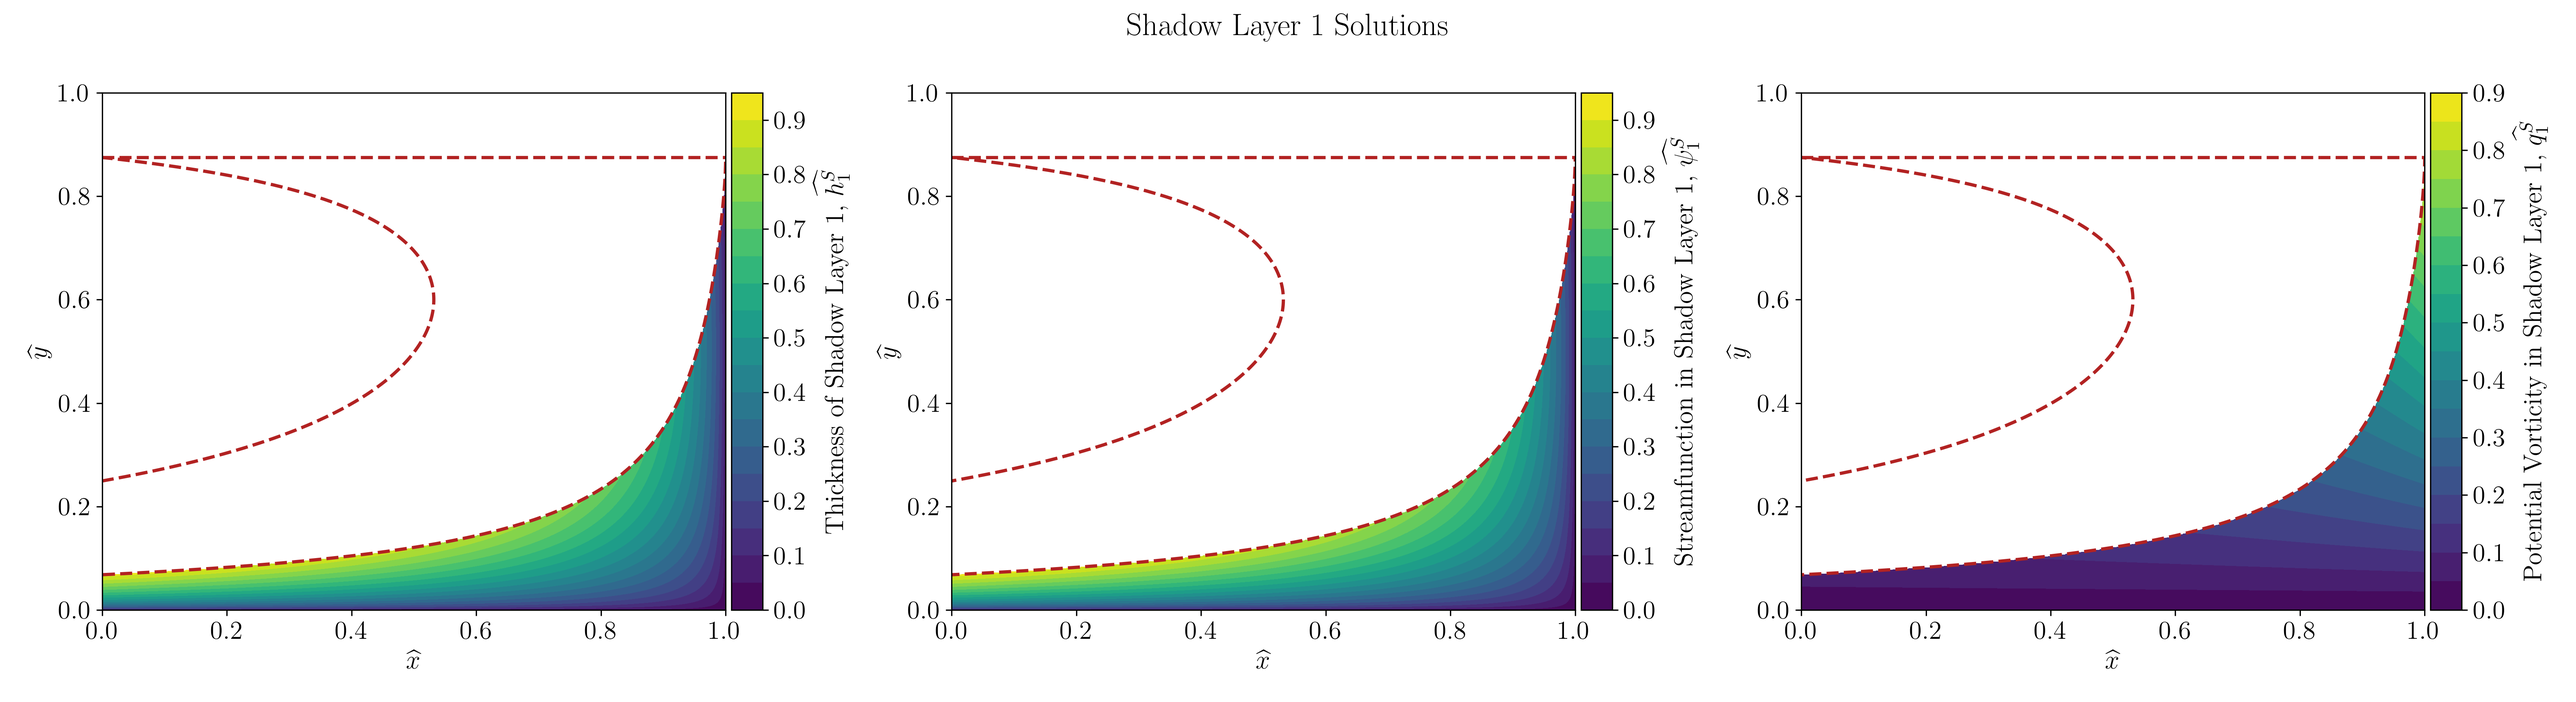
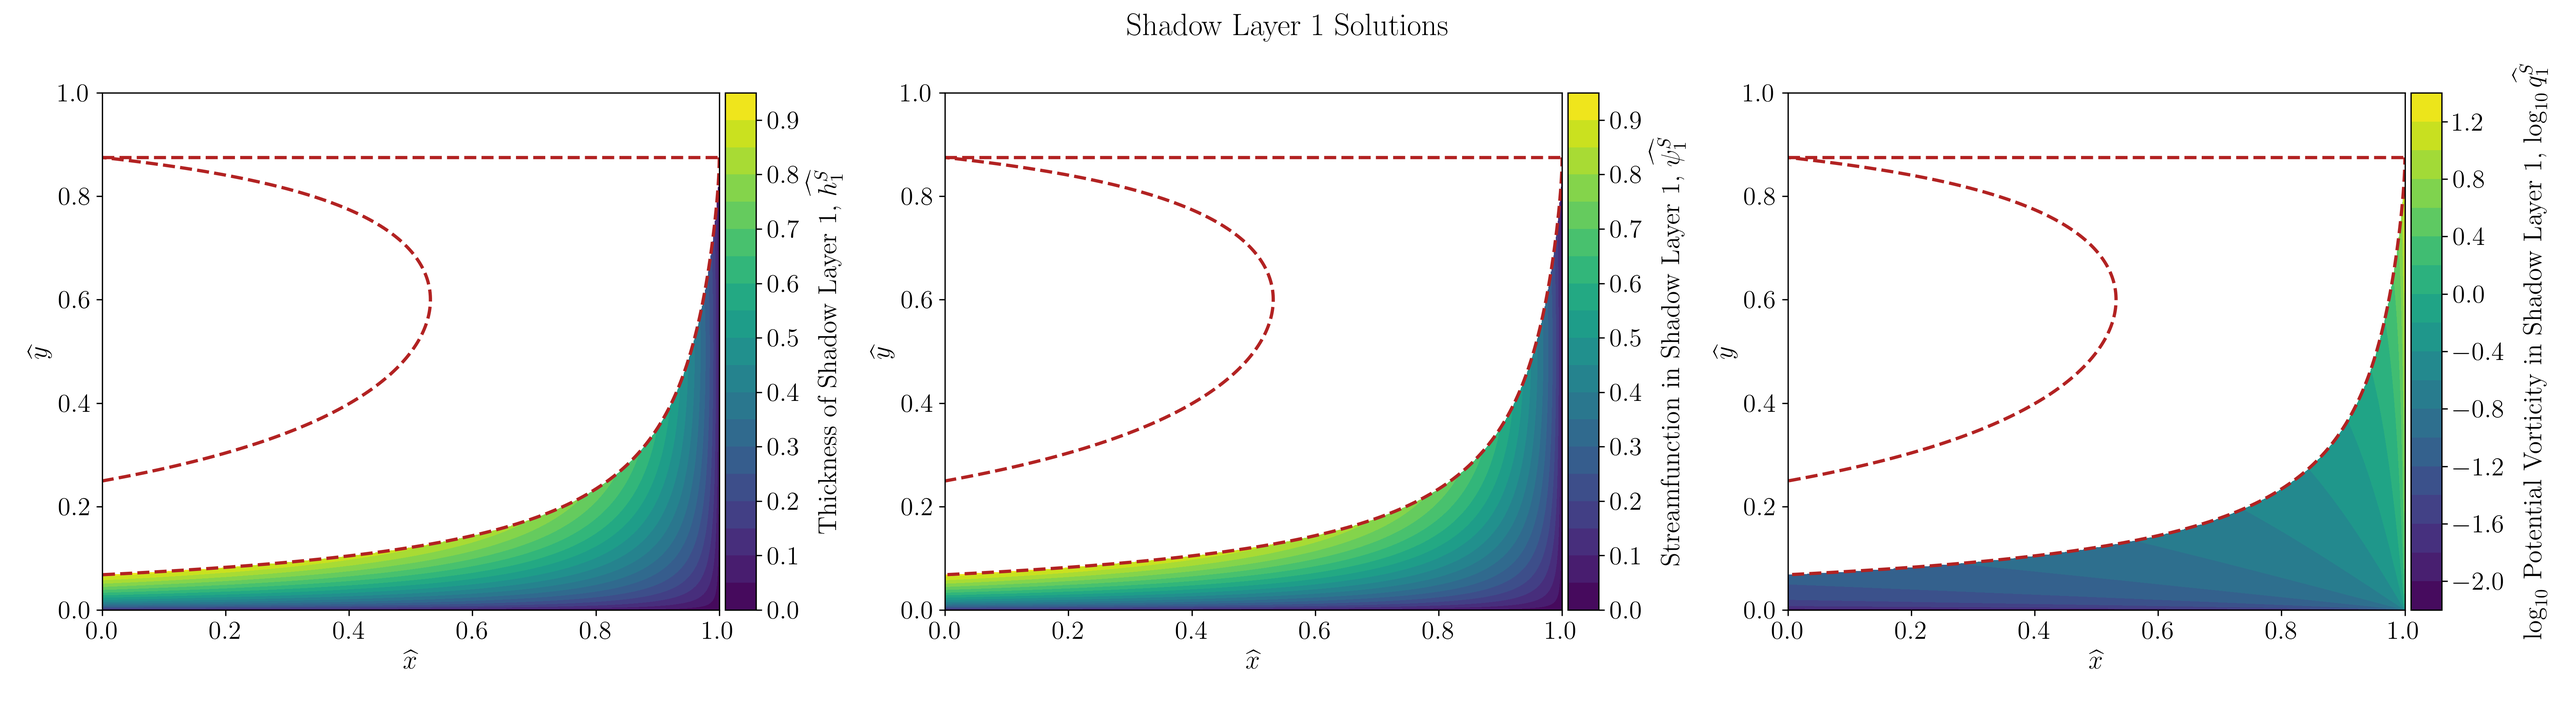
adding in submitted pset5 for 12801

diff --git a/blog/course_notes/courses/12801/problem_sets/ps5/12801_ps5.html b/blog/course_notes/courses/12801/problem_sets/ps5/12801_ps5.html
@@ -573,6 +573,7 @@ We plot the solution fields to Layer 1 in Fig. 6 below.
 	<figcaption> 
 		Fig. 6: The solution fields for Layer 1 of the Shadow region (left) $\widehat{h_1^S}$ (middle) $\widehat{\psi_1^S}$ (right) $\widehat{q_1^S}$.
 		The dash red lines represent the bounds of the "sleeve" of ventilation derived above.
+		Note the $\log_{10}$ scale of the PV, used to better show the contours of the solution.
 	</figcaption>
 </figure>
 
@@ -613,7 +614,7 @@ which means that:
 \end{equation}
 Then, we can relate this to our depth of $h_2$ following:
 \begin{equation}
-	\widehat{h_2} = \frac{f}{f_0}\widehat{q_2} = \frac{8}{7 \widehat{y}}\left(1 + 4\sin\left[\frac{7}{8}\pi\right] \right) ^ {1 / 2},
+	\widehat{h_2} = \frac{f}{f_0}\frac{1}{\widehat{q_2}} = \widehat{y}\frac{8}{7}\left(1 + 4\sin\left[\frac{7}{8}\pi\right] \right) ^ {1 / 2},
 \end{equation}
 and from geostrophy we know that:
 \begin{equation}
@@ -623,18 +624,131 @@ Now, we need to find $h_1$.
 </p>
 <p>
 <i>Layer 1: </i>
-
-
+We now set out to find the solutions to: $h_1^P$, $\psi_1^P$, and $q_1^P$, and again drop the superscript $P$ for convience and reintroduce it at the end.
+We begin by finding $h_1$, which is done by recalling our Sverdrup balance equation, and assuming geostrophy to get:
+\begin{equation}
+	h_1\partial_x\left[H + h_1\right] + \frac{f}{q_2}\partial_x\left[H\right] = \frac{f^2}{\beta \gamma}w_{Ek},
+\end{equation}
+which becomes, after some simplifications applying our Chain Rule derivation:
+\begin{equation}
+	\partial_x\left[h_1^2 + \frac{f}{q_2}h_1\right] = \frac{f^2}{\beta \gamma}w_{Ek}.
+\end{equation}
+Integrating over $x$ gives a quadratic in $h_1$:
+\begin{equation}
+	h_1^2 + \frac{f}{q_2}h_1 - \frac{f}{\gamma}\Psi_{geo} = 0.
+\end{equation}
+Recalling our definition of the quadratic formula, this equation has a physical (i.e., positive) solution of the form:
+\begin{equation}
+h_1 = - \frac{f}{2q_2} + \left( \left( \frac{f}{2q_2} \right)^2 + \frac{f}{\gamma}\Psi_{geo}  \right)^{1 / 2},
+\end{equation}
+which we can simplify by nondimensionalization, noting the following:
+\begin{align}
+\frac{f}{2q_2} \cdot \frac{1}{H_0} &= \frac{\widehat{y}}{2\widehat{q_2}} = \frac{1}{2}\widehat{h_2}, \\
+\frac{f}{4\gamma}\Psi_{geo} \cdot \frac{1}{H_0} &= \frac{1}{2}(1-\widehat{x})\sin\left[\pi \widehat{y}\right], \\
+\end{align}
+which leads to:
+\begin{equation}
+\widehat{h_1} = - \frac{\widehat{y}}{2 \widehat{q_2}} + \left( \left( \frac{\widehat{y}}{2 \widehat{q_2}} \right)^2 + \frac{1}{2}(1-\widehat{x})\sin\left[\pi \widehat{y}\right]  \right)^ {1 / 2}.
+\end{equation}
+We additionally note that, by geostrophy:
+\begin{equation}
+	\psi_1 \sim H + h_1.
+\end{equation}
+Therefore, we get:
+\begin{equation}
+	q_1 = \frac{f}{h_1},
+\end{equation}
+which implies that:
+\begin{equation}
+\widehat{q_1} = \frac{\widehat{y}}{\widehat{h_1}}.
+\end{equation}
 </p>
 <p>
 <i>Solution Fields:</i>
+Bringing it all together, we finally have that, in Layer 1 in the Pool region:
+\begin{align}
+\widehat{h_1^P} &= -\widehat{y}\frac{4}{7}\left(1 + 4\sin\left[\frac{7}{8}\pi\right] \right) ^ {1 / 2} + \left(\left( \widehat{y}\frac{4}{7} \right)^2\left(1 + 4\sin\left[\frac{7}{8}\pi\right] \right) + \frac{1}{2}(1-\widehat{x})\sin\left[\pi \widehat{y}\right] \right)^{1 / 2} ,\\
+\widehat{\psi_1^P} &= \left(\left( \widehat{y}\frac{8}{7} \right)^2\left(1 + 4\sin\left[\frac{7}{8}\pi\right] \right) + 2(1-\widehat{x})\sin\left[\pi \widehat{y}\right] \right)^{1 / 2} ,\\
+\widehat{q_1^P} &= \frac{\widehat{y}}{-\widehat{y}\frac{4}{7}\left(1 + 4\sin\left[\frac{7}{8}\pi\right] \right) ^ {1 / 2} + \left(\left( \widehat{y}\frac{4}{7} \right)^2\left(1 + 4\sin\left[\frac{7}{8}\pi\right] \right) + \frac{1}{2}(1-\widehat{x})\sin\left[\pi \widehat{y}\right] \right)^{1 / 2}} ,\\
+\end{align}
+These solutions are presented in Fig. 8 below.  
+<figure>
+	<img src="images/prob8.png" style="width:100%">
+	<figcaption> 
+		Fig. 8: The solution fields for Layer 1 of the Pool region (left) $\widehat{h_1^P}$ (middle) $\widehat{\psi_1^P}$ (right) $\widehat{q_1^P}$.
+		The dash red lines represent the bounds of the "sleeve" of ventilation derived above.
+	</figcaption>
+</figure>
 
-
+We then have the solution to Layer 2 in the Pool region:
+\begin{align}
+	\widehat{h_2^P} &= \widehat{y}\frac{8}{7}\left(1 + 4\sin\left[\frac{7}{8}\pi\right] \right) ^ {1 / 2}, \\
+	\widehat{\psi_2^P} &= \widehat{y}\frac{4}{7}\left(1 + 4\sin\left[\frac{7}{8}\pi\right] \right) ^ {1 / 2} + \left(\left( \widehat{y}\frac{4}{7} \right)^2\left(1 + 4\sin\left[\frac{7}{8}\pi\right] \right) + \frac{1}{2}(1-\widehat{x})\sin\left[\pi \widehat{y}\right] \right)^{1 / 2} ,\\
+	\widehat{q_2^P} &= \frac{7}{8}\left(1 + 4\sin\left[\frac{7}{8}\pi\right] \right) ^ {-1 / 2}. \\
+\end{align}
+These solutions are presented in Fig. 8 below.  
+<figure>
+	<img src="images/prob7.png" style="width:100%">
+	<figcaption> 
+		Fig. 9: The solution fields for Layer 2 of the Pool region (left) $\widehat{h_2^P}$ (middle) $\widehat{\psi_2^P}$ (right) $\widehat{q_2^P}$.
+		The dash red lines represent the bounds of the "sleeve" of ventilation derived above.
+	</figcaption>
+</figure>
 </p>
 
-
 <h3>Full Solutions</h3>
-
+We now present and discuss the full solutions, starting with the streamfunction of the lower layer presented in Fig. 10. 
+<figure>
+	<img src="images/psi_2.png" style="width:60%">
+	<figcaption> 
+		Fig. 10: The streamfunction (approximate, and $h_2$) of the lower layer. 
+		The shaded region is the pool region of constant potential vorticity for which we found solutions above and for which the solutions plotted are not valid.
+	</figcaption>
+</figure>
+In Fig. 10, we can see that ther egion east of the shadow zone is at rest. 
+Additionally, the flow in this layer is anticyclonic, which exits from the western boundary in the north and reenters in the south.
+We note that this solution assumes that the western boundary layer accepts the interior flow and returns it (as was required by our solution). 
+However, the boundary layer is not this simple and there is bound to be more complicated characteristics which we will neglect for this solution.
+<figure>
+	<img src="images/psi_1.png" style="width:60%">
+	<figcaption> 
+		Fig. 11: The streamfunction of the flow in the upper loayer. 
+		We note the kink in the streamlines as they pass across the shadow zone boundary. 
+		The shaded region is again the pool region, for which the solutions plotted are not valid.
+	</figcaption>
+</figure>
+In Fig. 11, we see that the streamfunction in the upper layer crosses the shadow zone boundary, yet there is a kink in the solution.
+This is due to the fact that in the west, the upper layer shares the Sverdup balance with the lower layer while in the east (of the shadow zone boundary) Layer 1 has the entirety of the balance.
+On the boundary, the kink is discontinuous and implies that the tangential velocity in both layers is discontinuous on the boundary.
+This is because the upper layer flow must be discontinuous to make Sverdrup transport continuous everywhere (a stipulation of the assumption).
+<figure>
+	<img src="images/q_2.png" style="width:60%">
+	<figcaption> 
+		Fig. 12: The potential vorticity of the lower layer.
+		It is important to note the decrease in the variation of $q_2$ in the ventilated region.
+		The shaded region is again the pool region, for which the solutions plotted are not valid.
+	</figcaption>
+</figure>
+In Fig. 12, We see that $q_2$ is conserevd south of the outcrop line, $f_1$.
+We further note the weakening of the variation in $q_2$ in the region of the ventilation south of the outcrop line.
+We note that the thickess of layer 2 varies more when there is only one region that carries all of the Sverdrup transport (i.e., in the northern regime or the shadow zone). 
+<figure>
+	<img src="images/h_y.png" style="width:60%">
+	<figcaption> 
+		Fig. 13: A meridional cross section showing the layer thicknesses, $h_1$ and $h_2$.
+	</figcaption>
+</figure>
+Fig. 13 shows a meridional cross section of the thicknesses. 
+We can see the flattening of the base of the thermocline within the shadow zone and the consistent increase in the slope of the interface between the two layers. 
+<figure>
+	<img src="images/h_x.png" style="width:60%">
+	<figcaption> Fig. 14: A zonal cross section showing the layer thicknesses, $h_1$ and $h_2$.
+	</figcaption>
+</figure>
+In Fig. 14, we show a zonal cross section of the layer thicknesses. 
+We can see that the BC is satisfied by having $h_1 \to 0$ near the eastern boundary.
+The rapid variation in $h_2$ causes a strong east to west gradient in $q_2$ in the shadow zone, where we see that $h_1\to  0$.
+Overall, from these cross sections, we can see a "bowl" of the total thickness $H$ on the western boundary and a ledge in the shadow zone of $H$.
 <hr style="width: 60em;">
 
 </div>
